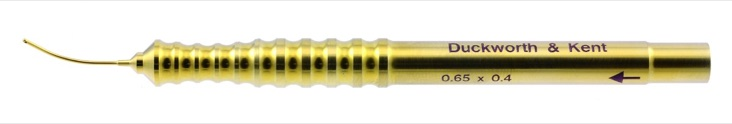
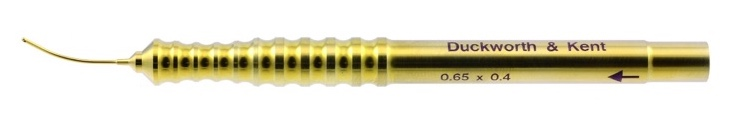
Category cards: flat instrument photos turned to the diagonal
Long instruments on category cards now all run corner to corner, half
off the card, like the drawn type photos: the brand page type cards and
the Cannulas card (product photos, via turnFor in plp.js; trays and
fixation rings stay upright), Free Lifetime Repair's needle holder and
hook, Repair Services' cryosurgical handpieces and Home's surgical lenses.
Product cards are unchanged.

Four photos (D&K handpiece, hooks, spatulas, handpieces) lose a 1px grey
border that showed as diagonal lines once turned.

diff --git a/src/_data/contentPages.js b/src/_data/contentPages.js
@@ -57,7 +57,8 @@ const logoSize = {
 const home = {
   /** Figma crops of the Ophthalmology category photos (34141:37913): Disposables is drawn flipped. */
   categoryImage: { instruments: "object-top", disposables: "-scale-y-100" },
-  /** Repair band cards (34141:38033). Diamond Knives and Surgical Lenses open their repair service; imgClass = Figma crop. */
+  /** Repair band cards (34141:38033). Diamond Knives and Surgical Lenses open their repair service; imgClass = Figma crop.
+      The lens holder is turned to the diagonal like the other long instruments on category cards. */
   repairCards: [
     { title: "Instruments", image: images["1907881e"], href: "/repair-services/", figma: "34141:38034", imgClass: "object-top" },
     { title: "Specialty", image: images["a76c7e54"], href: "/repair-services/", figma: "34141:38035", imgClass: "!object-contain px-5" },
@@ -67,7 +68,7 @@ const home = {
       image: images["3e4a0b96"],
       href: "/repair-services/#surgical-diagnostic-lenses",
       figma: "34141:38037",
-      imgClass: "[transform:scale(1.25,-1.25)]",
+      imgClass: "[transform:rotate(30deg)_scale(1.6,-1.6)_translate(6%,0)]",
     },
   ],
   logos: catalog.productLines
@@ -218,13 +219,14 @@ const about = {
 
 /**
  * Figma card title and image per catalog repair service (34799:68570, 34799:68574), in Figma order.
- * imgClass approximates the Figma crop of each photo (scaled or turned inside the frame).
+ * imgClass approximates the Figma crop of each photo (scaled or turned inside the frame); the cryosurgical handpieces,
+ * drawn flat, are turned to the diagonal like the other long instruments on category cards.
  */
 const repairCards = [
   ["micro-instrument", "Micro Instruments", "d61fe469", "34799:68571", ""],
   ["diamond-knife", "Diamond Knife Rehoning Service", "c565e376", "34799:68572", ""],
   ["phaco-handpiece", "Phaco Handpiece", "d76b9f33", "34799:68573", "[transform:scale(1.12)_rotate(-8deg)]"],
-  ["cryosurgical-handpiece", "Cryosurgical Handpiece", "db601ef3", "34799:68575", ""],
+  ["cryosurgical-handpiece", "Cryosurgical Handpiece", "db601ef3", "34799:68575", "!object-contain [transform:rotate(38deg)_scale(1.15)_translate(4%,0)]"],
   ["general-instrument", "General Surgical Instrument", "31a47e5d", "34799:68576", "!object-contain rotate-[24deg]"],
   ["surgical-diagnostic-lenses", "Surgical/Diagnostic Lens", "cef4ff5f", "34799:68577", "!object-contain scale-[1.22]"],
 ].map(([slug, title, image, figma, imgClass]) => {
@@ -290,13 +292,13 @@ const lifetime = {
     { figma: "35126:1386", title: "Purchased after July 1, 2007", text: "From AmblerSurgical.com" },
     { figma: "35126:1393", title: "Up to 50 free repairs", text: "Per customer, per fiscal year" },
   ],
-  /** What's Included cards (35122:1317), photo by Figma image hash. imgClass: the needle holder photo has a faint grey band
-      round the instrument that the Figma render brightens away. */
+  /** What's Included cards (35122:1317), photo by Figma image hash. The flat needle holder and hook photos get the
+      category cards' diagonal turn (plp.diagonal), like the scissors and forceps drawn that way. */
   included: [
     { figma: "35122:1318", title: "FREE Scissor Sharpening", image: images["1907881e"] },
     { figma: "35122:1323", title: "FREE Forceps Alignment", image: images["478dcae3"] },
-    { figma: "35122:1328", title: "FREE Needle Holder Re-Setting", image: images["393cbe8d"], imgClass: "brightness-105" },
-    { figma: "35122:1333", title: "FREE Hook Straightening", image: images["a9a5e53d"] },
+    { figma: "35122:1328", title: "FREE Needle Holder Re-Setting", image: images["393cbe8d"], style: plp.diagonal },
+    { figma: "35122:1333", title: "FREE Hook Straightening", image: images["a9a5e53d"], style: plp.diagonal },
   ],
   /** "Request a Free Repair" (35122:1338) as three steps, from the old site's "How do I send my instruments in for repair?". */
   steps: [

diff --git a/src/_data/plp.js b/src/_data/plp.js
@@ -67,6 +67,10 @@ const mobileDiagonal = "translate(24%, 14%) rotate(20deg) scale(1.5)";
 /** …and in the shorter 350x116 "Shop By Categories" cards (34777:58812), centred. */
 const mobileNavDiagonal = "rotate(18deg) scale(1.7)";
 const typePhotoMobile = { speculum: "translate(-3%, 12%) scale(1.3)", handpieces: "rotate(15deg) scale(1.2)" };
+/** Types whose photos stay upright on category cards: not long instruments. */
+const uprightTypes = new Set(["trays", "fixation-rings"]);
+/** Card turn for a type's photo (a type photo or a product's own photo): the diagonal for long instruments. */
+const turnFor = (slug) => (uprightTypes.has(slug) ? {} : { style: typePhotoStyle[slug] || diagonal, mobileTransform: typePhotoMobile[slug] || mobileDiagonal });
 
 /**
  * Hover descriptions on category cards (styleguide "Hover — shows description"). Cannulas and the
@@ -607,6 +611,7 @@ const ownCount = (pred) => listingProducts.filter(pred).length;
 function typeCard(t, href, count, extra = {}) {
   const photo = typePhotos[t.slug];
   const product = listingProducts.find((p) => p.type === t.slug);
+  const turn = photo || product ? turnFor(t.slug) : {};
   return {
     name: t.name,
     slug: t.slug,
@@ -615,8 +620,8 @@ function typeCard(t, href, count, extra = {}) {
     image: photo ? images[photo] : product ? product.image : images["1907881e"],
     fit: photo || product ? "contain" : "cover",
     position: photo || product ? null : "top",
-    style: photo ? typePhotoStyle[t.slug] || diagonal : null,
-    mobileTransform: photo ? typePhotoMobile[t.slug] || mobileDiagonal : null,
+    style: turn.style || null,
+    mobileTransform: turn.mobileTransform || null,
     hover: typeHoverText[t.slug] || null,
     ...extra,
   };
@@ -783,6 +788,7 @@ const brandPages = lines.map((b) => {
         href: `/browse-by-type/${t.slug}/?manufacturer=${encodeURIComponent(b.name)}`,
         image: product.image,
         fit: "contain",
+        ...turnFor(t.slug),
         hover: hover[t.slug] || typeHoverText[t.slug] || null,
       };
     }),
@@ -822,6 +828,7 @@ const browseTypeIndex = {
 const search = listing(products, { title: "results", id: "search-results", search: true });
 
 export default {
+  diagonal,
   gradients,
   logoWidths,
   trust,
